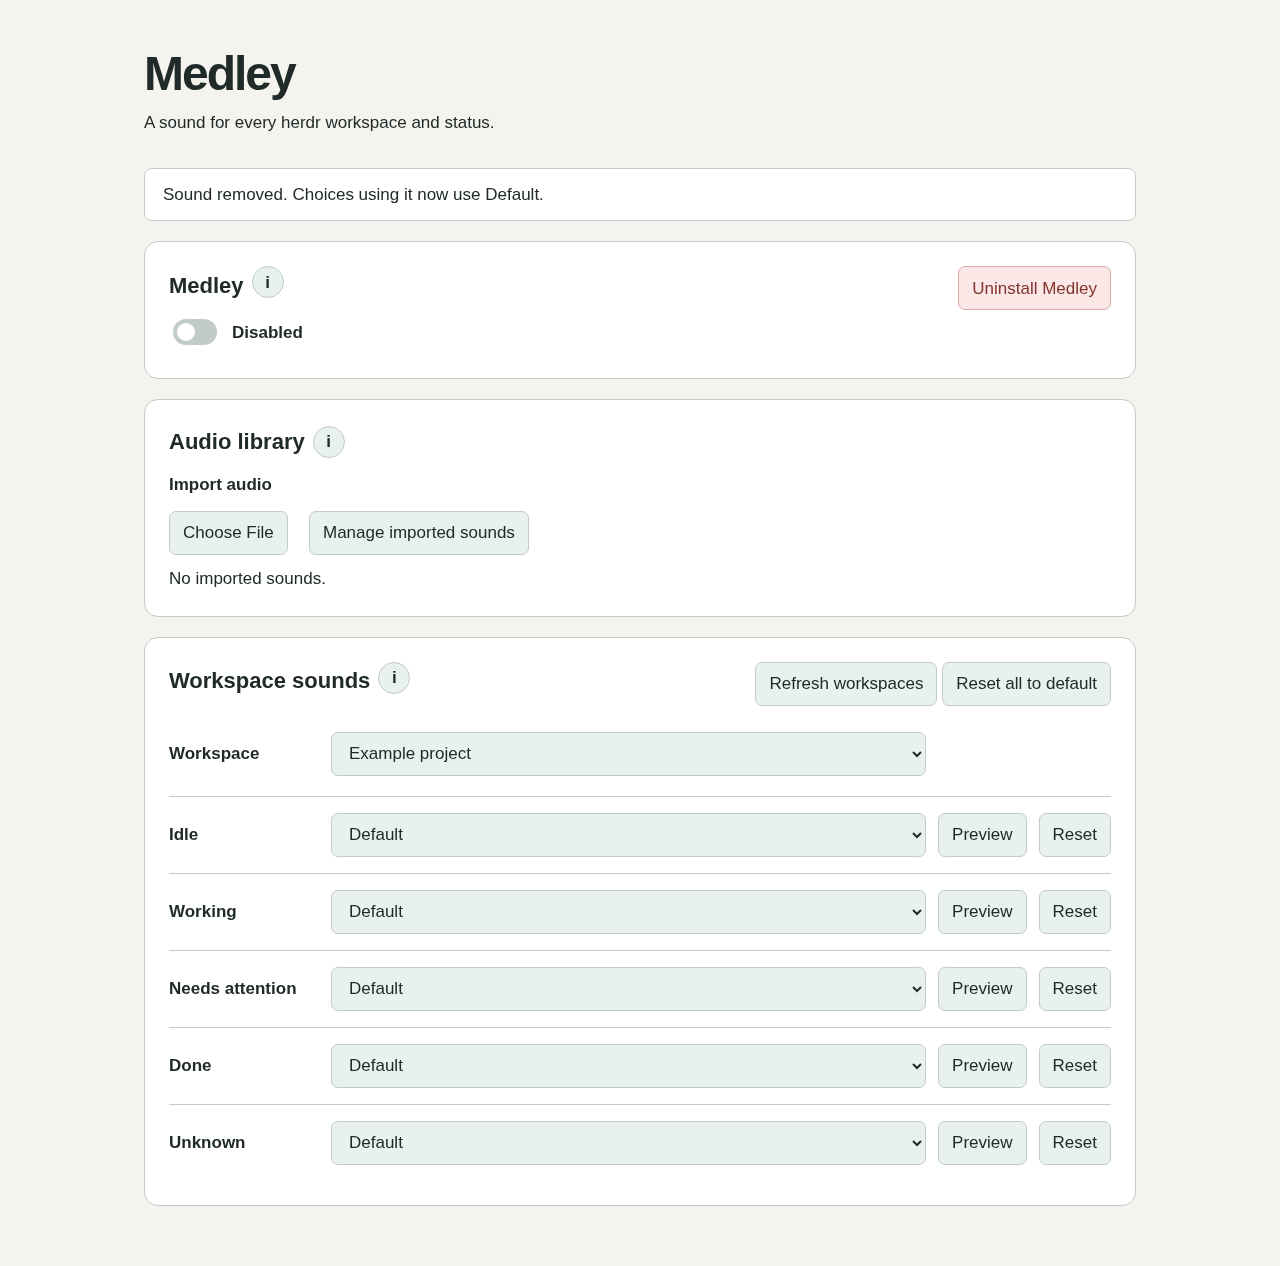
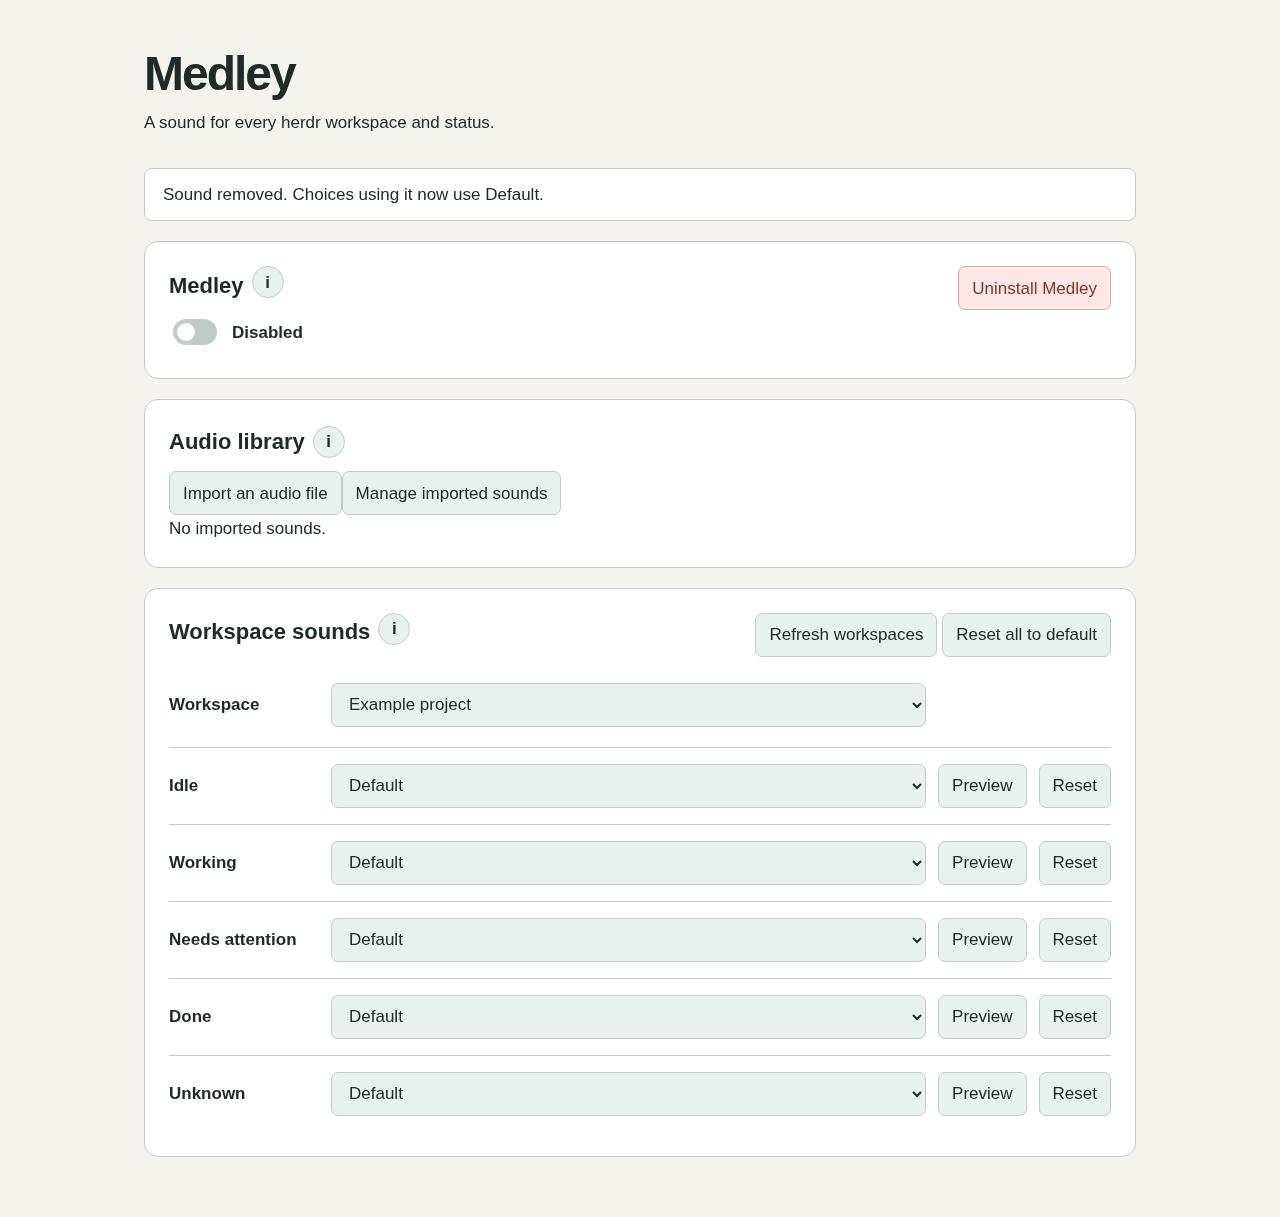
Use Import an audio file as the picker button

diff --git a/assets/index.html b/assets/index.html
@@ -3,7 +3,7 @@
 <body><main><header><h1>Medley</h1><p>A sound for every herdr workspace and status.</p></header>
 <p id="feedback" role="status" aria-live="polite" hidden></p><p id="error" role="alert" hidden></p><audio id="player" controls hidden aria-label="Sound preview"></audio>
 <section aria-labelledby="playback-heading"><div class="section-heading"><div class="library-heading"><h2 id="playback-heading">Medley</h2><button class="info-button" type="button" popovertarget="medley-help" aria-label="About Medley">i</button></div><button id="uninstall">Uninstall Medley</button></div><label class="toggle"><input type="checkbox" role="switch" aria-label="Medley enabled" id="enabled"> <span id="enabled-label">Disabled</span></label><div id="medley-help" class="help-popover" popover><p>Medley handles notification sounds while enabled. Disabling or using Uninstall Medley here restores herdr’s previous sound setting. Audio plays on the herdr server’s machine, including for the workspace you are viewing.</p><p>Local settings · No account or cloud service required</p></div></section>
-<section aria-labelledby="library-heading"><div class="library-heading"><h2 id="library-heading">Audio library</h2><button class="info-button" type="button" popovertarget="library-help" aria-label="About audio imports">i</button></div><div id="library-help" class="help-popover" popover>Choose an MP3 or WAV to import it immediately, then select it in any workspace. WAV files convert to MP3. Maximum 20 MB.</div><label for="upload">Import audio</label><input type="file" accept=".mp3,.wav,audio/mpeg,audio/wav" id="upload"><button id="manage-library" aria-expanded="false" aria-controls="library-files">Manage imported sounds</button><div id="library-files" hidden></div></section>
+<section aria-labelledby="library-heading"><div class="library-heading"><h2 id="library-heading">Audio library</h2><button class="info-button" type="button" popovertarget="library-help" aria-label="About audio imports">i</button></div><div id="library-help" class="help-popover" popover>Choose an MP3 or WAV to import it immediately, then select it in any workspace. WAV files convert to MP3. Maximum 20 MB.</div><button id="choose-audio" type="button">Import an audio file</button><input type="file" accept=".mp3,.wav,audio/mpeg,audio/wav" id="upload" aria-label="Import an audio file" hidden><button id="manage-library" aria-expanded="false" aria-controls="library-files">Manage imported sounds</button><div id="library-files" hidden></div></section>
 <section aria-labelledby="rules-heading"><div class="section-heading"><div class="library-heading"><h2 id="rules-heading">Workspace sounds</h2><button class="info-button" type="button" popovertarget="workspace-help" aria-label="About workspace sounds">i</button></div><div><button id="refresh">Refresh workspaces</button> <button id="reset">Reset all to default</button> <button id="undo" hidden>Undo reset</button></div></div><div id="workspace-help" class="help-popover" popover>Choose a workspace and a status. Changes save immediately. Default follows herdr’s configured completion or attention sound; Working and Unknown are quiet by default.</div>
 <div class="workspace-row"><label for="workspace">Workspace</label><select id="workspace"></select></div><div id="rules"></div></section>
 </main></body></html>

diff --git a/assets/app.js b/assets/app.js
@@ -109,3 +109,5 @@ $('uninstall').onclick = () => {
     document.querySelectorAll('section').forEach(section=>section.hidden=true);
   });
 };
+
+$('choose-audio').onclick = () => $('upload').click();

diff --git a/docs/validation.md b/docs/validation.md
@@ -267,3 +267,10 @@ refreshed desktop capture visually inspected, mobile overflow check passed.
 Native file-input filename text is visually hidden, leaving the styled Choose File
 button. Its label, picker and immediate import behavior remain. Chromium suite
 passed with updated synthetic captures, including import/error and keyboard checks.
+
+## Import button label — 2026-10-20
+
+Removed Import audio heading. A native “Import an audio file” button opens the
+hidden native picker; selecting imports immediately. Browser validation opens the
+actual file chooser via this button, selects synthetic audio and verifies import.
+Full Chromium checks passed; captures refreshed. Keyboard semantics retained.
